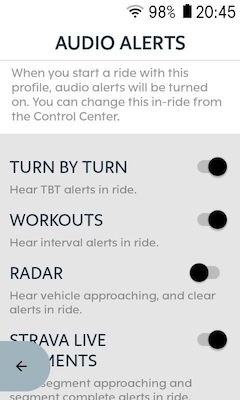
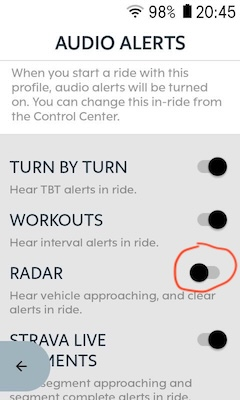
readme updated

Changed region(s): [[0.7583, 0.6, 0.9917, 0.75], [0.7, 0.63, 0.7583, 0.72]]

diff --git a/README.md b/README.md
@@ -5,7 +5,8 @@
 
 ![image](logo.png)
 
-Hammerhead Karoo extension that allows configuring radar alerts.
+Hammerhead Karoo extension that allows configuring radar alerts  
+and controlling the radar light.
 
 ## Requirements
 
@@ -29,14 +30,23 @@ Karoo 2:
 3. Install the app by running `adb install app-release.apk`.
 
 ## Usage
-
+**Radar**
 Set the frequency and duration of the sound, and tap ‘Save.’\
 ![Screenshot](kxradar_screen1.png)![Screenshot](kxradar_screen2.png)
+
+**Ligt**
+Experimental feature (Special thanks to **derstrassi**)  
+Light control turns the light on when a vehicle is detected  
+and off when the road is clear, saving battery.  
+Only ONE light is supported.  
+Tested with Garmin Varia 516 (this radar has only one mode).  
+![Screenshot](kxradar_screen3.jpg)![Screenshot](kxradar_screen4.jpg)
 
 ## Links
 
 Official SDK
 [karoo-ext source](https://github.com/hammerheadnav/karoo-ext)\
-Specail thanks for examples to **timklge**
-[github](https://github.com/timklge?tab=repositories)
-
+Specail thanks to   
+**timklge** [github](https://github.com/timklge?tab=repositories)  
+**derstrassi** [github](https://github.com/derstrassi)  
+... 
